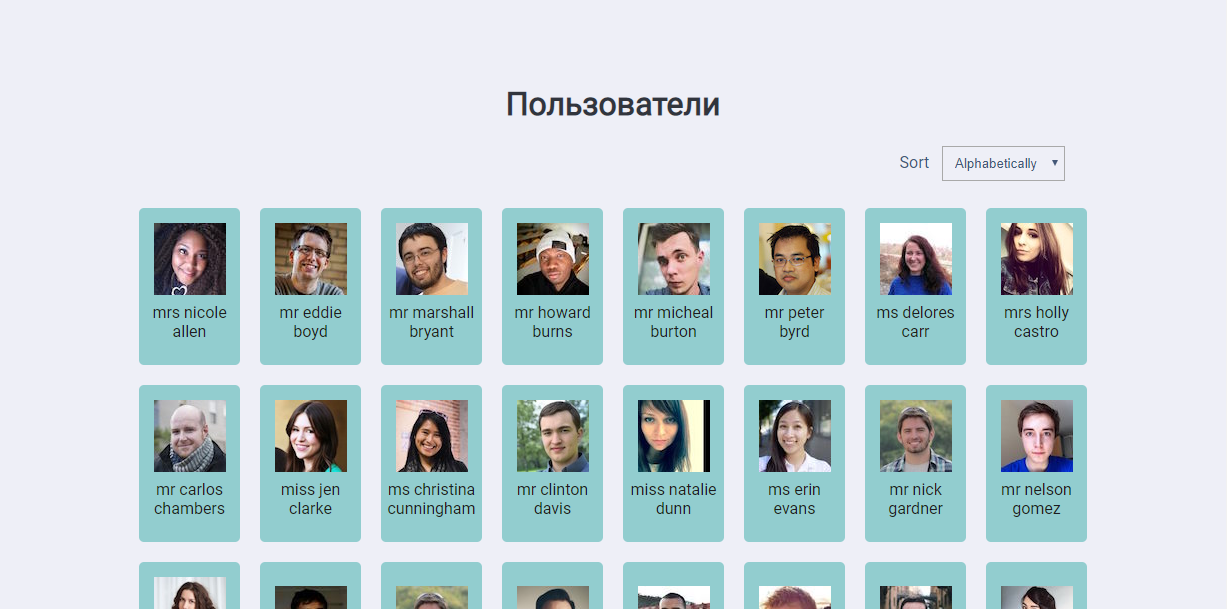
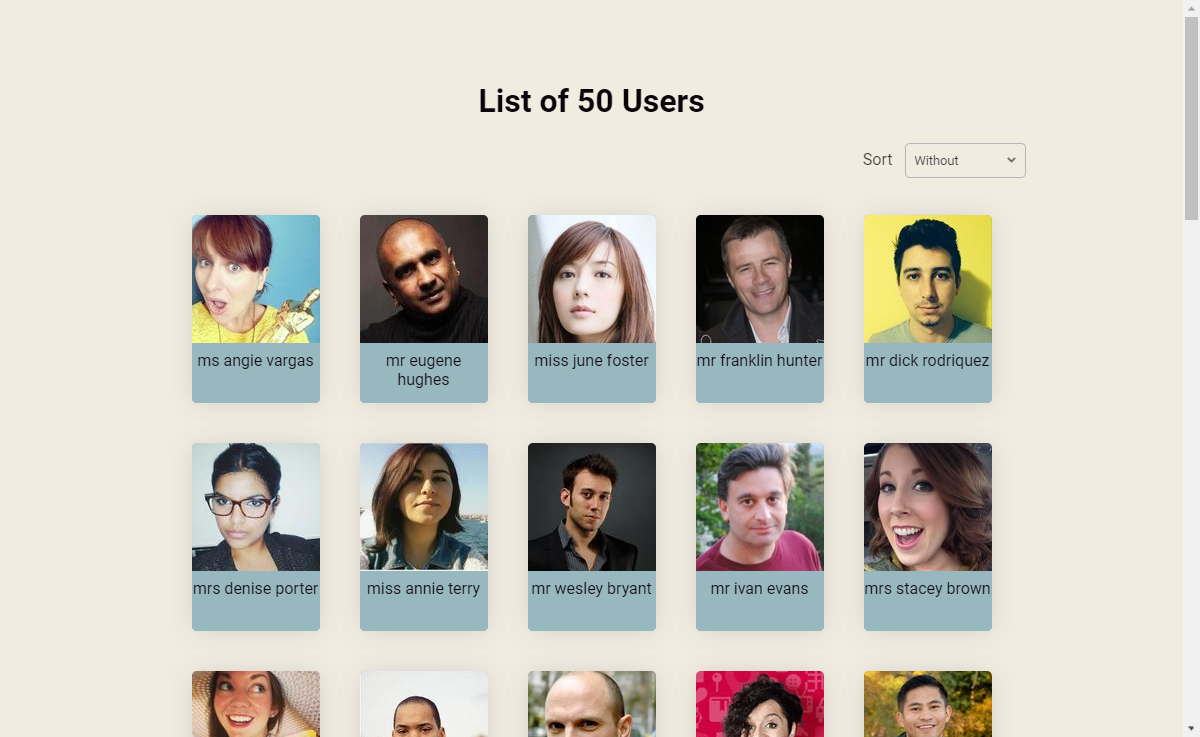
Added screenshots and description #6

diff --git a/README.md b/README.md
@@ -1,6 +1,11 @@
-# UsersList
-[Demo](https://decorous-escape.000webhostapp.com/ "Demo") <br>
-На странице выводится список пользователей. Список получен из random user api. Кол-во колонок с карточками зависит от ширины экрана. Также можно отсортировать список по алфавиту (по фамилиям, а если фамилии совпадают, то по имени).
-![СписокПользователей](https://raw.githubusercontent.com/shelchkov/UsersList/master/examples/home.PNG)
-При клике на карточку, отображается более подробная информация о пользователе. Скрыть информацию можно кликнув по крестику в правом верхнем углу.
-![СписокПользователей](https://raw.githubusercontent.com/shelchkov/UsersList/master/examples/user.PNG)
+# 50Users
+
+[Demo](https://decorous-escape.000webhostapp.com/ "Demo")
+
+On the page there's presented a list of 50 users. The list is fetched from the server (random user api). Also you can sort users.
+
+![50Users](https://raw.githubusercontent.com/shelchkov/UsersList/master/examples/home.PNG)
+
+You can click on selected user to see more information. To close opened window click anywhere outside the modal window.
+
+![50Users](https://raw.githubusercontent.com/shelchkov/UsersList/master/examples/modal.PNG)
